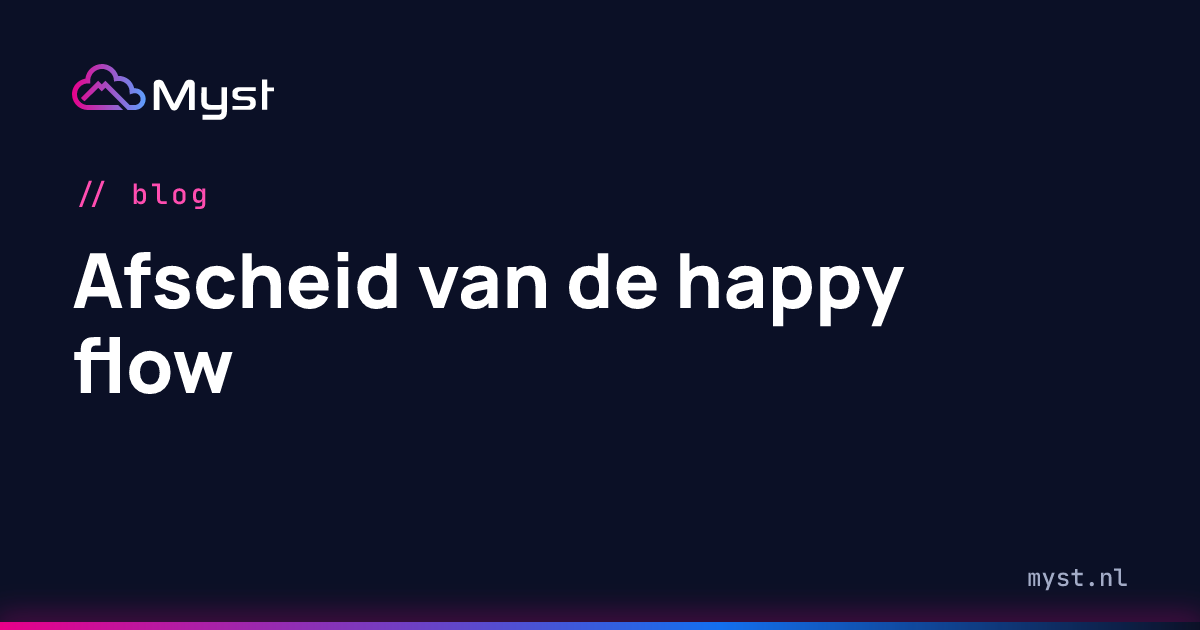
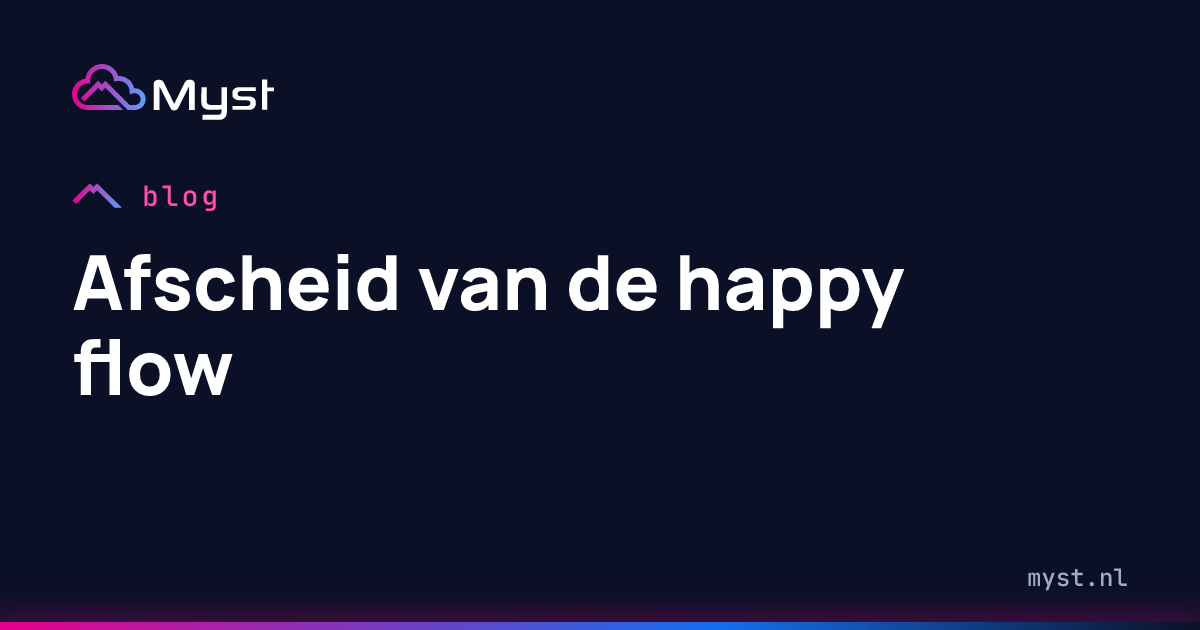
Labels met logoteken

diff --git a/src/styles/global.css b/src/styles/global.css
@@ -26,6 +26,7 @@ a:hover { color: var(--magenta-tekst); }
 .mono { font-family: var(--mono); }
 .gedempt { color: var(--tekst-gedempt); }
 .wrap { max-width: 1200px; margin: 0 auto; padding: 0 32px; width: 100%; }
+.svg-defs { position: absolute; width: 0; height: 0; overflow: hidden; }
 .sr-only { position: absolute; width: 1px; height: 1px; overflow: hidden; clip-path: inset(50%); white-space: nowrap; }
 
 /* header */
@@ -54,6 +55,7 @@ a:hover { color: var(--magenta-tekst); }
 
 /* label, chip, knop, kaart */
 .label { font-family: var(--mono); font-size: 12px; letter-spacing: 0.12em; text-transform: uppercase; color: var(--magenta-tekst); }
+.label__teken { display: inline-block; height: 0.9em; width: auto; margin-right: 0.7em; vertical-align: -0.12em; }
 .label--stil { color: var(--tekst-gedempt); }
 .chip { display: inline-block; font-family: var(--mono); font-size: 12px; padding: 6px 10px; border: 1px solid rgba(255, 255, 255, 0.14); color: var(--tekst-zacht); border-radius: 3px; white-space: nowrap; }
 .cloudlogo { align-self: flex-start; display: inline-flex; align-items: center; }
@@ -217,7 +219,7 @@ html.fosfor .gloedlijn { background: linear-gradient(90deg, #5BF870, transparent
 html.fosfor .knop--primair { color: #06110C; text-shadow: none; box-shadow: 0 0 24px rgba(91, 248, 112, 0.35); }
 html.fosfor .knop--primair:hover, html.fosfor .terminal:hover .knop--primair, html.fosfor .terminal:focus-visible .knop--primair { background: #8CFF9B; color: #06110C; }
 html.fosfor .knop--secundair, html.fosfor .nav nav a.console, html.fosfor .chip { border-color: rgba(91, 248, 112, 0.4); }
-html.fosfor .logo stop { stop-color: #5BF870; }
+html.fosfor .logo stop, html.fosfor .svg-defs stop { stop-color: #5BF870; }
 html.fosfor .logo g { fill: #5BF870; }
 
 /* breach protocol (404) */

diff --git a/src/scripts/breach.ts b/src/scripts/breach.ts
@@ -1,3 +1,5 @@
+import { bergtopSvg } from "../lib/bergtop.mjs";
+
 const CODES = ["1C", "BD", "55", "E9", "7A", "FF"];
 const N = 5;
 const BUFFER = 6;
@@ -43,7 +45,8 @@ function bouw(sectie: HTMLElement) {
   const buffer: string[] = [];
   let klaar = false;
 
-  const label = el("p", "label", "// breach protocol");
+  const label = el("p", "label", "breach protocol");
+  label.insertAdjacentHTML("afterbegin", bergtopSvg);
   const kop = el("h2", undefined, "Of breek in.");
   const spel = el("div", "breach");
 
